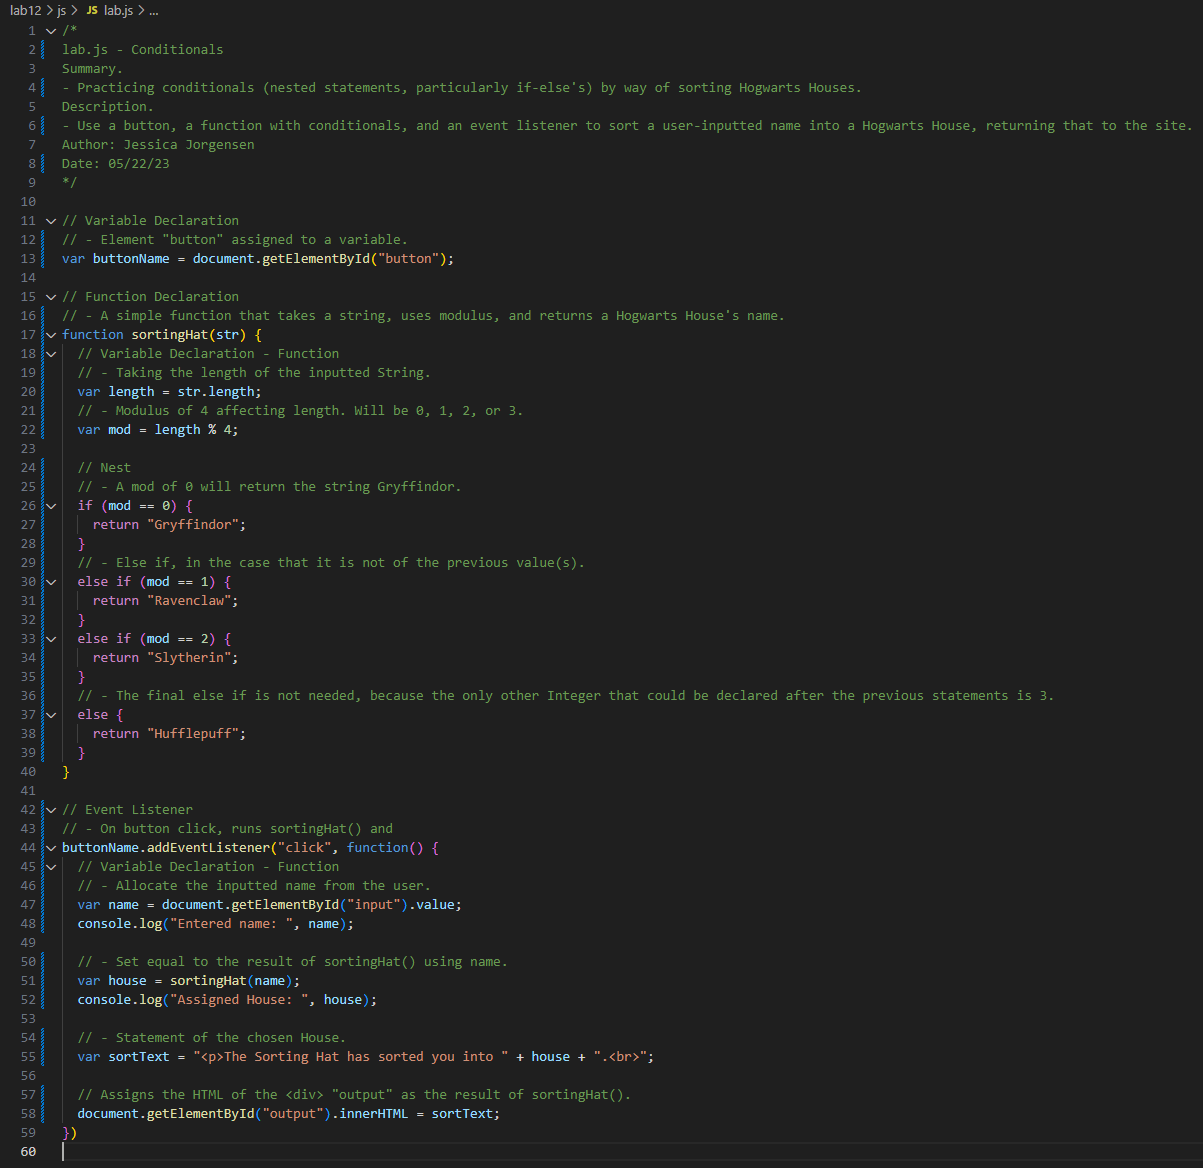
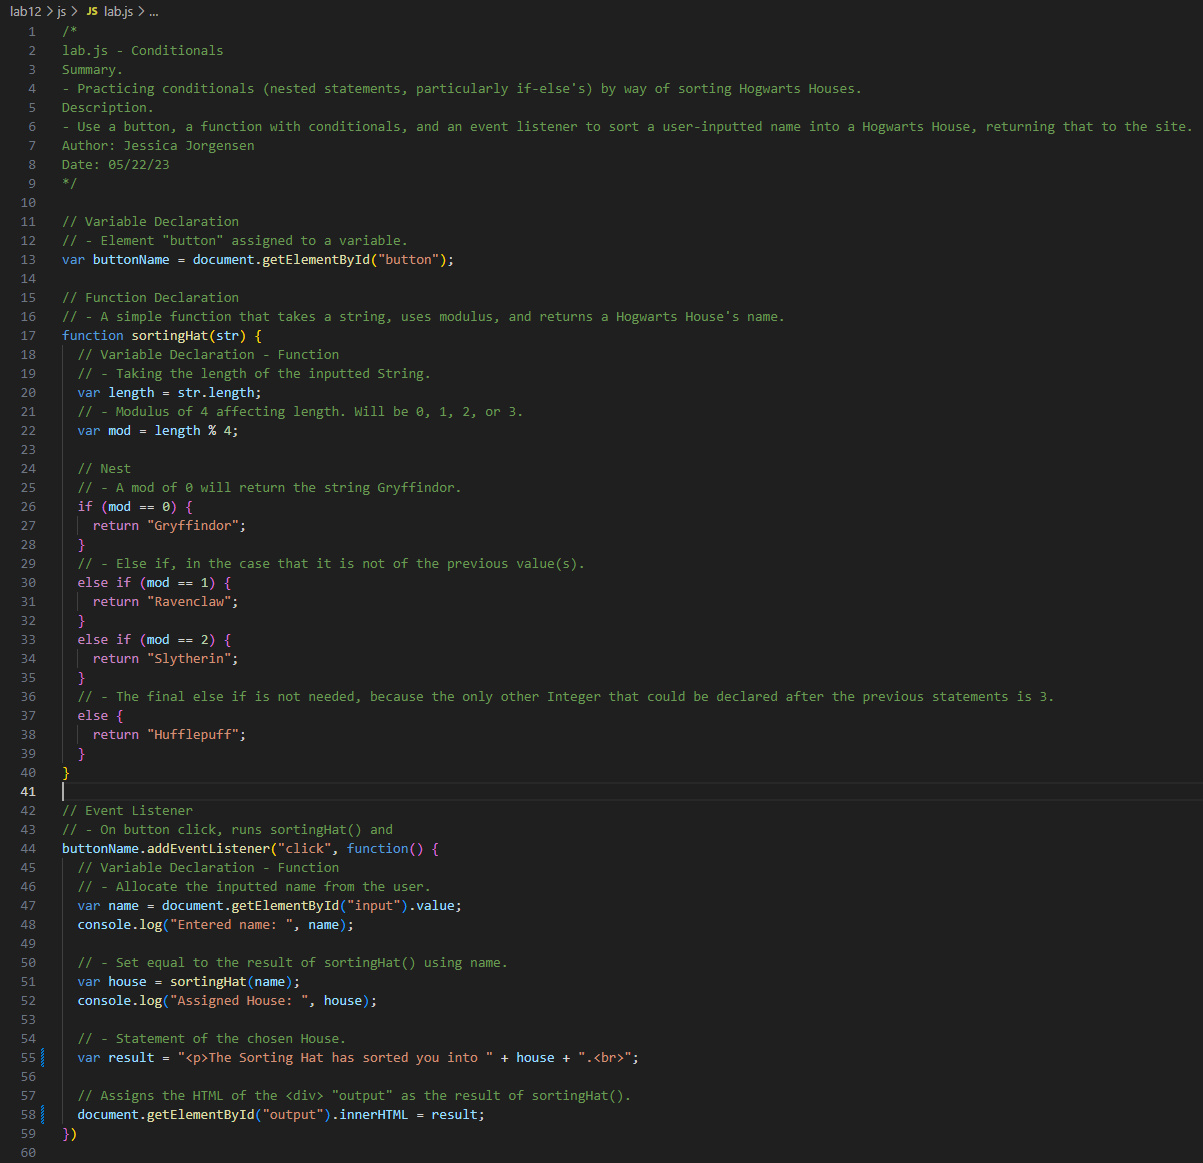
Lab 12, 2

diff --git a/lab12/js/lab.js b/lab12/js/lab.js
@@ -22,20 +22,20 @@ function sortingHat(str) {
   var mod = length % 4;
 
   // Nest
-  // - A mod of 0 will return the string Gryffindor.
+  // - A mod of 0 will return the House name and description.
   if (mod == 0) {
-    return "Gryffindor";
+    return ["Gryffindor", "With a color scheme of scarlet and gold, Gryffindor represents those that are chivalrous and valorous. A lion is the House's animal."];
   }
   // - Else if, in the case that it is not of the previous value(s).
   else if (mod == 1) {
-    return "Ravenclaw";
+    return ["Ravenclaw", "Those in Ravenclaw display a need to learn and sharpness, portrayed by an eagle. Their house colors are blue and bronze."];
   }
   else if (mod == 2) {
-    return "Slytherin";
+    return ["Slytherin", "Clothed in green and silver, Slytherin's students are exemplary cases of ambition and craftiness - best represented by a snake."];
   }
-  // - The final else if is not needed, because the only other Integer that could be declared after the previous statements is 3.
+  // - The final else if is not needed, because the only other Integer that could be declared after not being 0, 1, or 2 is 3.
   else {
-    return "Hufflepuff";
+    return ["Hufflepuff", "Hardworking and loyal to a fault, the House of Hufflepuff is always willing to lend others a hand. Their yellow and black color scheme is accented by their animal being a badger."];
   }
 }
 
@@ -48,12 +48,14 @@ buttonName.addEventListener("click", function() {
   console.log("Entered name: ", name);
 
   // - Set equal to the result of sortingHat() using name.
-  var house = sortingHat(name);
+  var house = sortingHat(name)[0];
+  var description = sortingHat(name)[1];
   console.log("Assigned House: ", house);
+  console.log("House Description: ", description);
 
   // - Statement of the chosen House.
-  var sortText = "<p>The Sorting Hat has sorted you into " + house + ".<br>";
+  var result = "<p>The Sorting Hat has sorted you into " + house + ".<br>" + "<p>" + description;
 
   // Assigns the HTML of the <div> "output" as the result of sortingHat().
-  document.getElementById("output").innerHTML = sortText;
+  document.getElementById("output").innerHTML = result;
 })

diff --git a/lab12/index.html b/lab12/index.html
@@ -17,13 +17,13 @@
 			<h1>Lab 12: Conditionals</h1>
 
 			<h2>Challenge</h2>
-			<p>To use conditionals in a function in order to sort a user-inputted name into a Hogwards House.</p>
+			<p>To use conditionals in a function in order to sort a user-inputted name into a Hogwarts House.</p>
 
 			<h2>Problems</h2>
 			<p>No problems as of Task 1.</p>
 
 			<h2>Results</h2>
-			<p>A simple nested if-else statements formed the basis for the function, which shows itself in place of the the div output once a string is put into the input and the button is pressed. Bonus tasks will be performed to expand this.</p>
+			<p>A simple nested if-else statement formed the basis for the function, which shows itself in place of the the div output once a string is put into the input and the button is pressed. Bonus tasks will be performed to expand this.</p>
 
 			<!--Task 1: Create an index.html for your lab-->
 			<h4>JavaScript Output</h4>
@@ -50,6 +50,11 @@
 			<!--Task 3: Test, Debug, and Upload-->
 			<img id="site" src="img/site.png">
 			<p>Lab 12's page, live on the internet. Complete with no errors, but is subject to change with the addition of bonus tasks.</p>
+
+			<!--Task X: Bonus!-->
+			<img id="description" src="img/description-1.png">
+			<img id="description" src="img/description-2.png">
+			<p>The first of the bonus tasks. In order to keep the original statement, while also providing a description, sortingHat() was made so that it returned an Array of Strings: the name and the description. Each were seperated out in the event lister function as seperate variables, before combined in the result. Both also appear seperately in the console, so feel free to take a look!</p>
 		</section>
 		<h3>Links</h3>
 		<nav id="links">

diff --git a/lab12/css/lab.css b/lab12/css/lab.css
@@ -3,7 +3,7 @@ h1 {
 }
 
 /* Max dimensions for all screenshots. */
-#hub, #index, #local, #script, #site {
+#description, #hub, #index, #local, #script, #site {
   max-height: 800px;
   max-width: 900px;
 }
